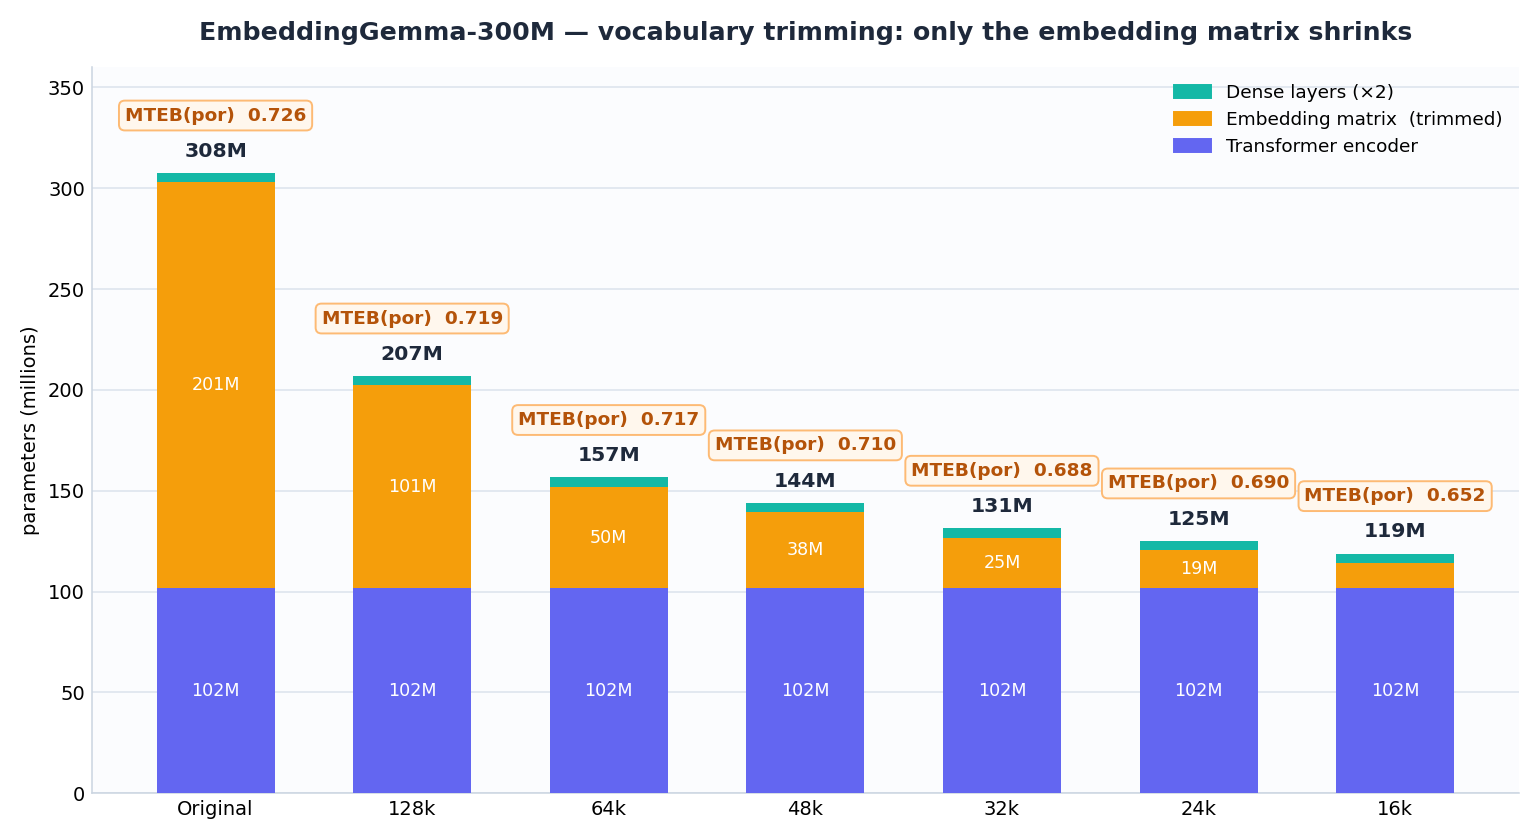
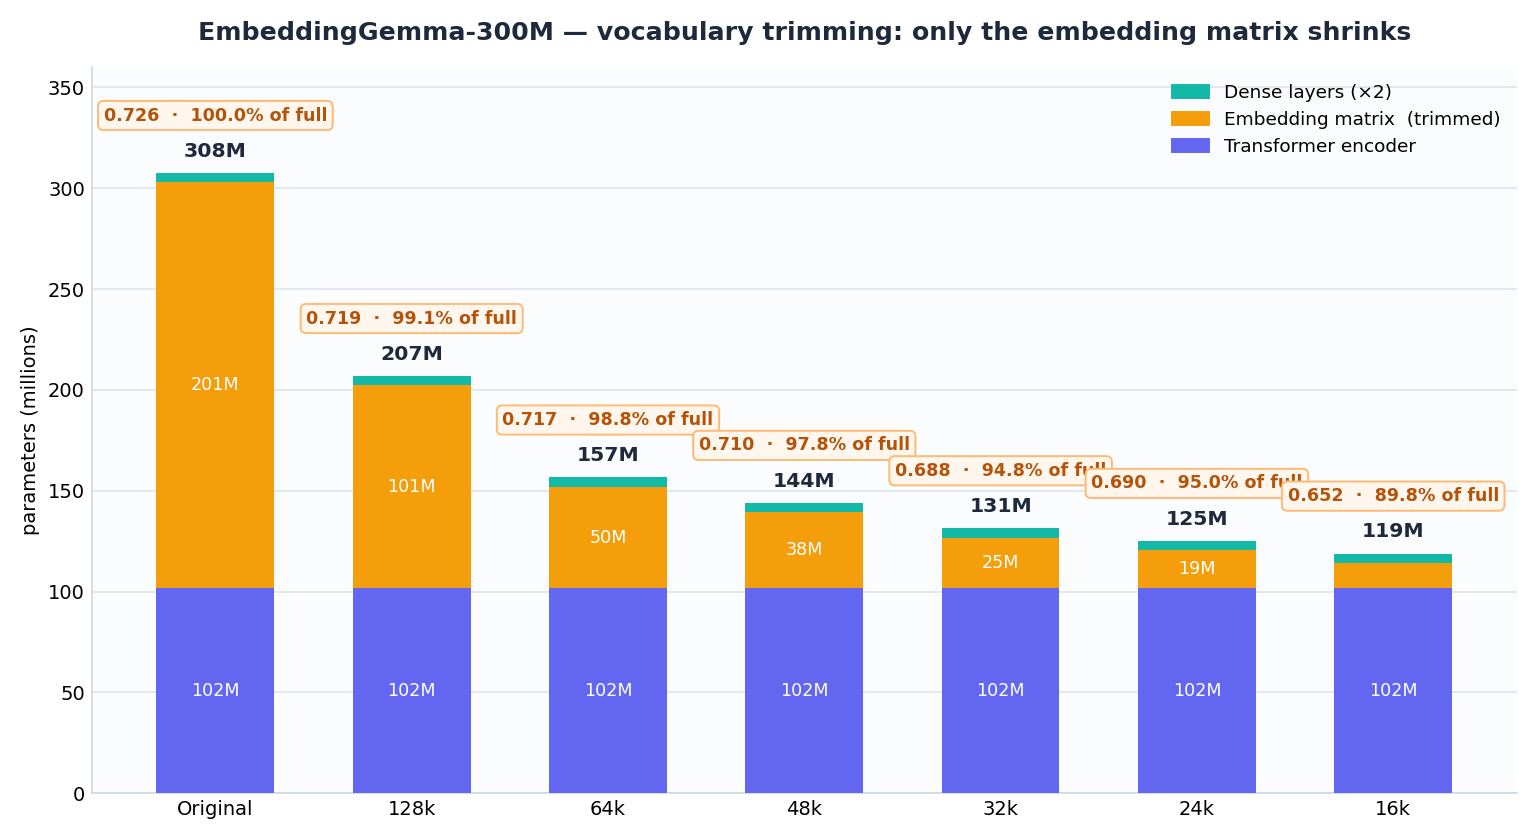
Show quality as % of full model (instead of absolute delta)

diff --git a/results/plot_composition.py b/results/plot_composition.py
@@ -53,12 +53,13 @@ for xi, e in zip(x, emb):
         ax.text(xi, TRANSFORMER + e / 2, f"{e:.0f}M", ha="center", va="center",
                 color="white", fontsize=9, zorder=4)
 
-# top labels: total params (bold) + MTEB(por) score in a pill
+# top labels: total params (bold) + MTEB(por) score & % of full in a pill
+FULL_SCORE = 0.7257
 for xi, t, sc in zip(x, totals, scores):
     ax.text(xi, t + 6, f"{t:.0f}M", ha="center", va="bottom", fontweight="bold",
             color=SLATE, fontsize=10.5)
-    ax.annotate(f"MTEB(por)  {sc:.3f}", (xi, t + 24), ha="center", va="bottom",
-                fontsize=9.5, fontweight="bold", color=ACCENT,
+    ax.annotate(f"{sc:.3f}  ·  {sc/FULL_SCORE*100:.1f}% of full", (xi, t + 24), ha="center", va="bottom",
+                fontsize=9, fontweight="bold", color=ACCENT,
                 bbox=dict(boxstyle="round,pad=0.32", fc="#fff7ed", ec="#fdba74", lw=1))
 
 ax.set_ylim(0, 360)

diff --git a/MODEL_CARD.md b/MODEL_CARD.md
@@ -29,15 +29,15 @@ Produced with the open-source tool 🛠️ **[embedding-vocab-trimmer](https://g
 
 The full **embeddinggemma-pt-br** family (vocabulary size sweep; this model = the **64k** sweet spot):
 
-| model | params | MTEB(por) `mean_16` |
-|---|---:|:---:|
-| google/embeddinggemma-300m | ~308M | 0.7257 |
-| [embeddinggemma-pt-br-128k](https://huggingface.co/tardellirs/embeddinggemma-pt-br-128k) | ~207M | 0.7192 |
-| **embeddinggemma-pt-br (64k, this)** | **~157M** | **0.7172** |
-| [embeddinggemma-pt-br-48k](https://huggingface.co/tardellirs/embeddinggemma-pt-br-48k) | ~144M | 0.7098 |
-| [embeddinggemma-pt-br-32k](https://huggingface.co/tardellirs/embeddinggemma-pt-br-32k) | ~131M | 0.6881 |
-| [embeddinggemma-pt-br-24k](https://huggingface.co/tardellirs/embeddinggemma-pt-br-24k) | ~125M | 0.6895 |
-| [embeddinggemma-pt-br-16k](https://huggingface.co/tardellirs/embeddinggemma-pt-br-16k) | ~119M | 0.6520 |
+| model | params | MTEB(por) `mean_16` | % of full |
+|---|---:|:---:|:---:|
+| google/embeddinggemma-300m | ~308M | 0.7257 | 100% |
+| [embeddinggemma-pt-br-128k](https://huggingface.co/tardellirs/embeddinggemma-pt-br-128k) | ~207M | 0.7192 | 99.1% |
+| **embeddinggemma-pt-br (64k, this)** | **~157M** | **0.7172** | **98.8%** |
+| [embeddinggemma-pt-br-48k](https://huggingface.co/tardellirs/embeddinggemma-pt-br-48k) | ~144M | 0.7098 | 97.8% |
+| [embeddinggemma-pt-br-32k](https://huggingface.co/tardellirs/embeddinggemma-pt-br-32k) | ~131M | 0.6881 | 94.8% |
+| [embeddinggemma-pt-br-24k](https://huggingface.co/tardellirs/embeddinggemma-pt-br-24k) | ~125M | 0.6895 | 95.0% |
+| [embeddinggemma-pt-br-16k](https://huggingface.co/tardellirs/embeddinggemma-pt-br-16k) | ~119M | 0.6520 | 89.8% |
 
 `mean_16` = the 16 headline MTEB(por) tasks (classification, pair-classification, STS, clustering,
 retrieval, reranking). Full curve + charts in the

diff --git a/README.md b/README.md
@@ -72,15 +72,15 @@ e.g. `por`, `fra`, `deu`, `spa`). Use `--corpus-dataset` to mine from any other 
 Evaluated on **MTEB(por)** (16 headline tasks, `mean_16`). *Vocabulary size is the only lever — quality
 recovers monotonically as you keep more tokens; **the encoder and Dense heads are identical at every size.***
 
-| vocab | params | MTEB(por) `mean_16` | vs. full EG-300M |
-|------:|-------:|:-------------------:|:----------------:|
-| 16k   | ~119M  | 0.652  | −0.074 |
-| 24k   | ~125M  | 0.6895 | −0.036 |
-| 32k   | ~131M  | 0.6881 | −0.038 |
-| 48k   | ~144M  | 0.7098 | −0.016 |
-| **64k** | **~157M** | **0.7172** | **−0.0085** |
-| 128k  | ~207M  | 0.7192 | −0.0065 |
-| *full EG-300M* | *~308M* | *0.7257* | *—* |
+| vocab | params | MTEB(por) `mean_16` | % of full |
+|------:|-------:|:-------------------:|:---------:|
+| 16k   | ~119M  | 0.652  | 89.8% |
+| 24k   | ~125M  | 0.6895 | 95.0% |
+| 32k   | ~131M  | 0.6881 | 94.8% |
+| 48k   | ~144M  | 0.7098 | 97.8% |
+| **64k** | **~157M** | **0.7172** | **98.8%** |
+| 128k  | ~207M  | 0.7192 | 99.1% |
+| *full EG-300M* | *~308M* | *0.7257* | *100%* |
 
 **64k is the sweet spot: ≈ full-model quality at half the parameters.** 24k is the smallest practical
 point (smaller models lose fine retrieval quality fast). See [`results/`](results/) and the worked

diff --git a/results/mteb_por_pareto.md b/results/mteb_por_pareto.md
@@ -7,15 +7,15 @@ across all rows**; only the embedding matrix changes. Trimming is training-free.
 Metric: **MTEB(por)** headline `mean_16` (16 tasks — classification, pair-classification, STS,
 clustering, retrieval, reranking). Higher is better.
 
-| vocab | params | `mean_16` | Δ vs full | notes |
+| vocab | params | `mean_16` | % of full | notes |
 |------:|-------:|:---------:|:---------:|-------|
-| 16k   | ~119M  | 0.6520 | −0.0737 | over-trimmed; fine retrieval degrades |
-| 24k   | ~125M  | 0.6895 | −0.0362 | smallest practical point |
-| 32k   | ~131M  | 0.6881 | −0.0376 | ≈ 24k (within noise) |
-| 48k   | ~144M  | 0.7098 | −0.0159 | |
-| **64k** | **~157M** | **0.7172** | **−0.0085** | **sweet spot — ≈ full quality, ½ params** |
-| 128k  | ~207M  | 0.7192 | −0.0065 | near-full; diminishing returns (+0.002 over 64k for +50M) |
-| full  | ~308M  | 0.7257 | — | untrimmed EmbeddingGemma-300M |
+| 16k   | ~119M  | 0.6520 | 89.8% | over-trimmed; fine retrieval degrades |
+| 24k   | ~125M  | 0.6895 | 95.0% | smallest practical point |
+| 32k   | ~131M  | 0.6881 | 94.8% | ≈ 24k (within noise) |
+| 48k   | ~144M  | 0.7098 | 97.8% | |
+| **64k** | **~157M** | **0.7172** | **98.8%** | **sweet spot — ≈ full quality, ½ params** |
+| 128k  | ~207M  | 0.7192 | 99.1% | near-full; diminishing returns (+0.002 over 64k for +50M) |
+| full  | ~308M  | 0.7257 | 100% | untrimmed EmbeddingGemma-300M |
 
 **Reading the curve:** quality recovers monotonically above 32k. At 64k the trim keeps **98.8%** of
 the full model's score with **51%** of the parameters. Below ~24k the model loses the fine-grained